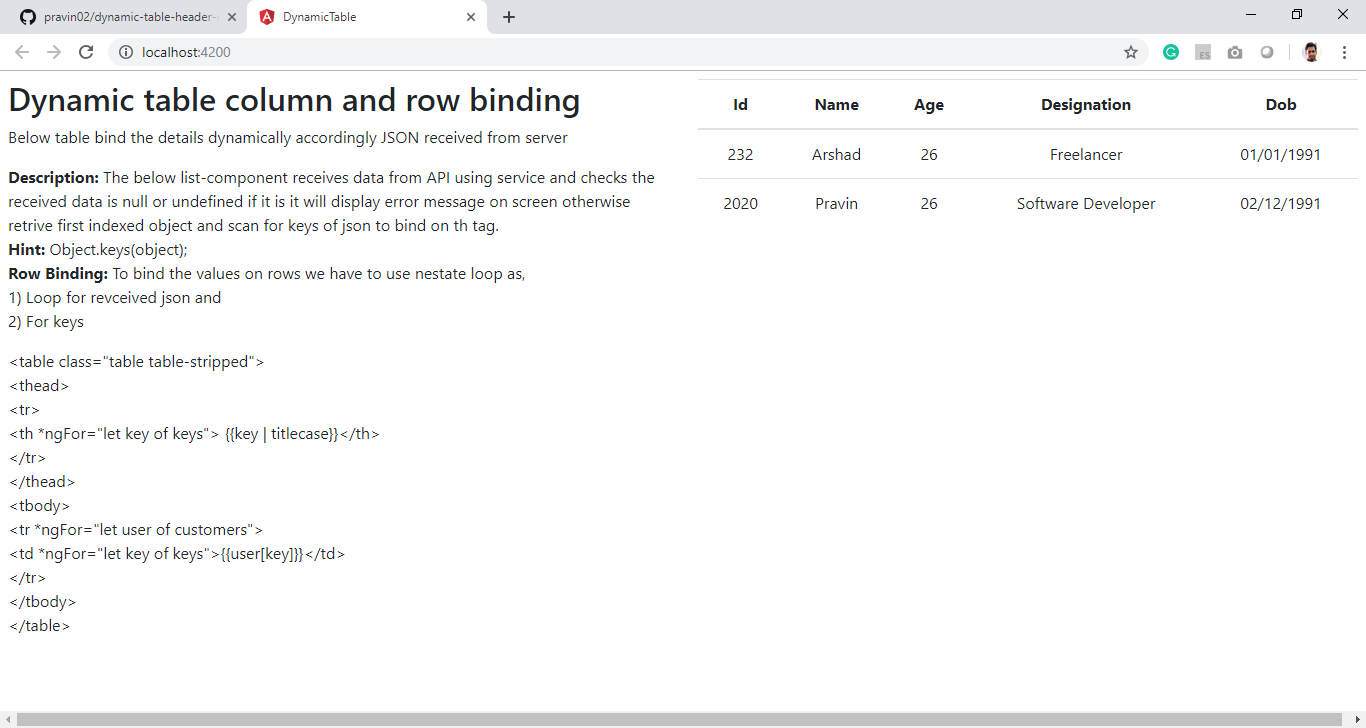
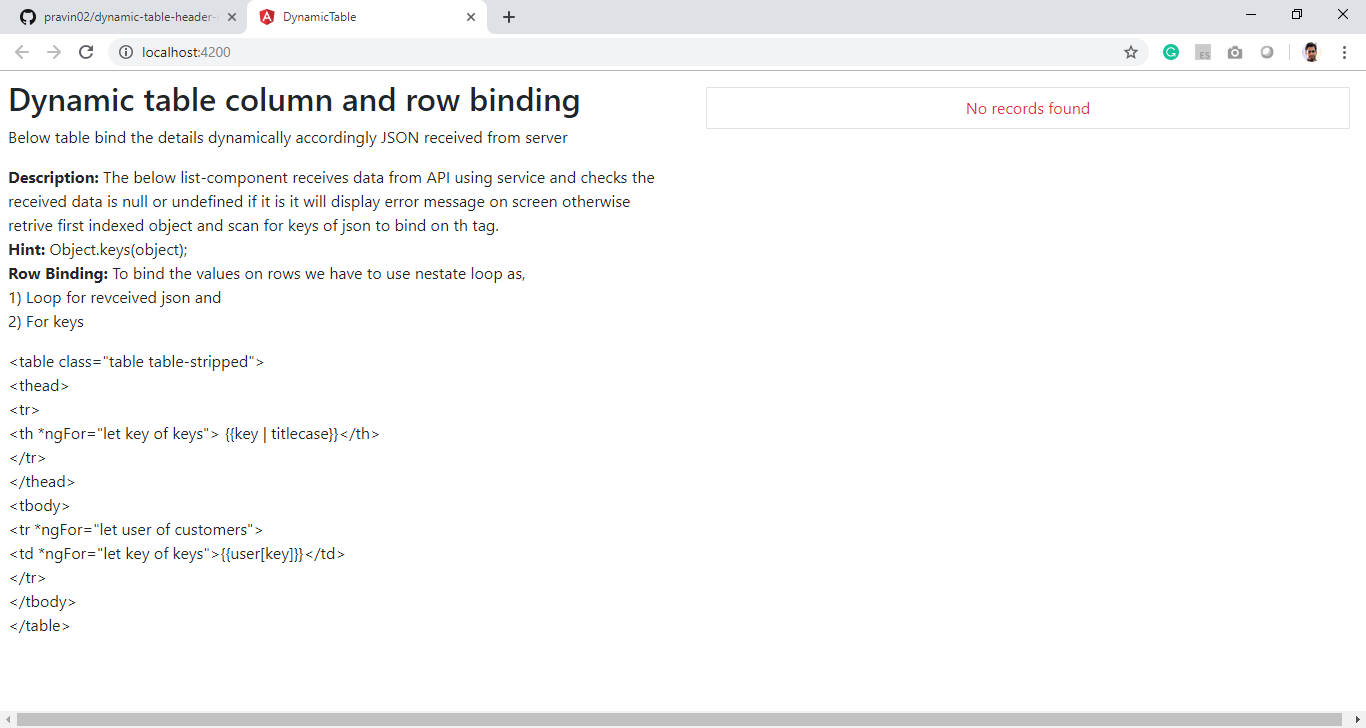
screenshots updated

diff --git a/src/app/list/list.component.ts b/src/app/list/list.component.ts
@@ -26,10 +26,10 @@ export class ListComponent implements OnInit {
    * After component init calling API
    */
   ngOnInit() {
-    let api = 'list1.json';
+    //let api = 'list1.json';
     //let api = 'list2.json';
     //let api = 'list3.json';
-    //let api = 'list4.json';
+    let api = 'list4.json';
     this.fetchList(api);
   }
 
